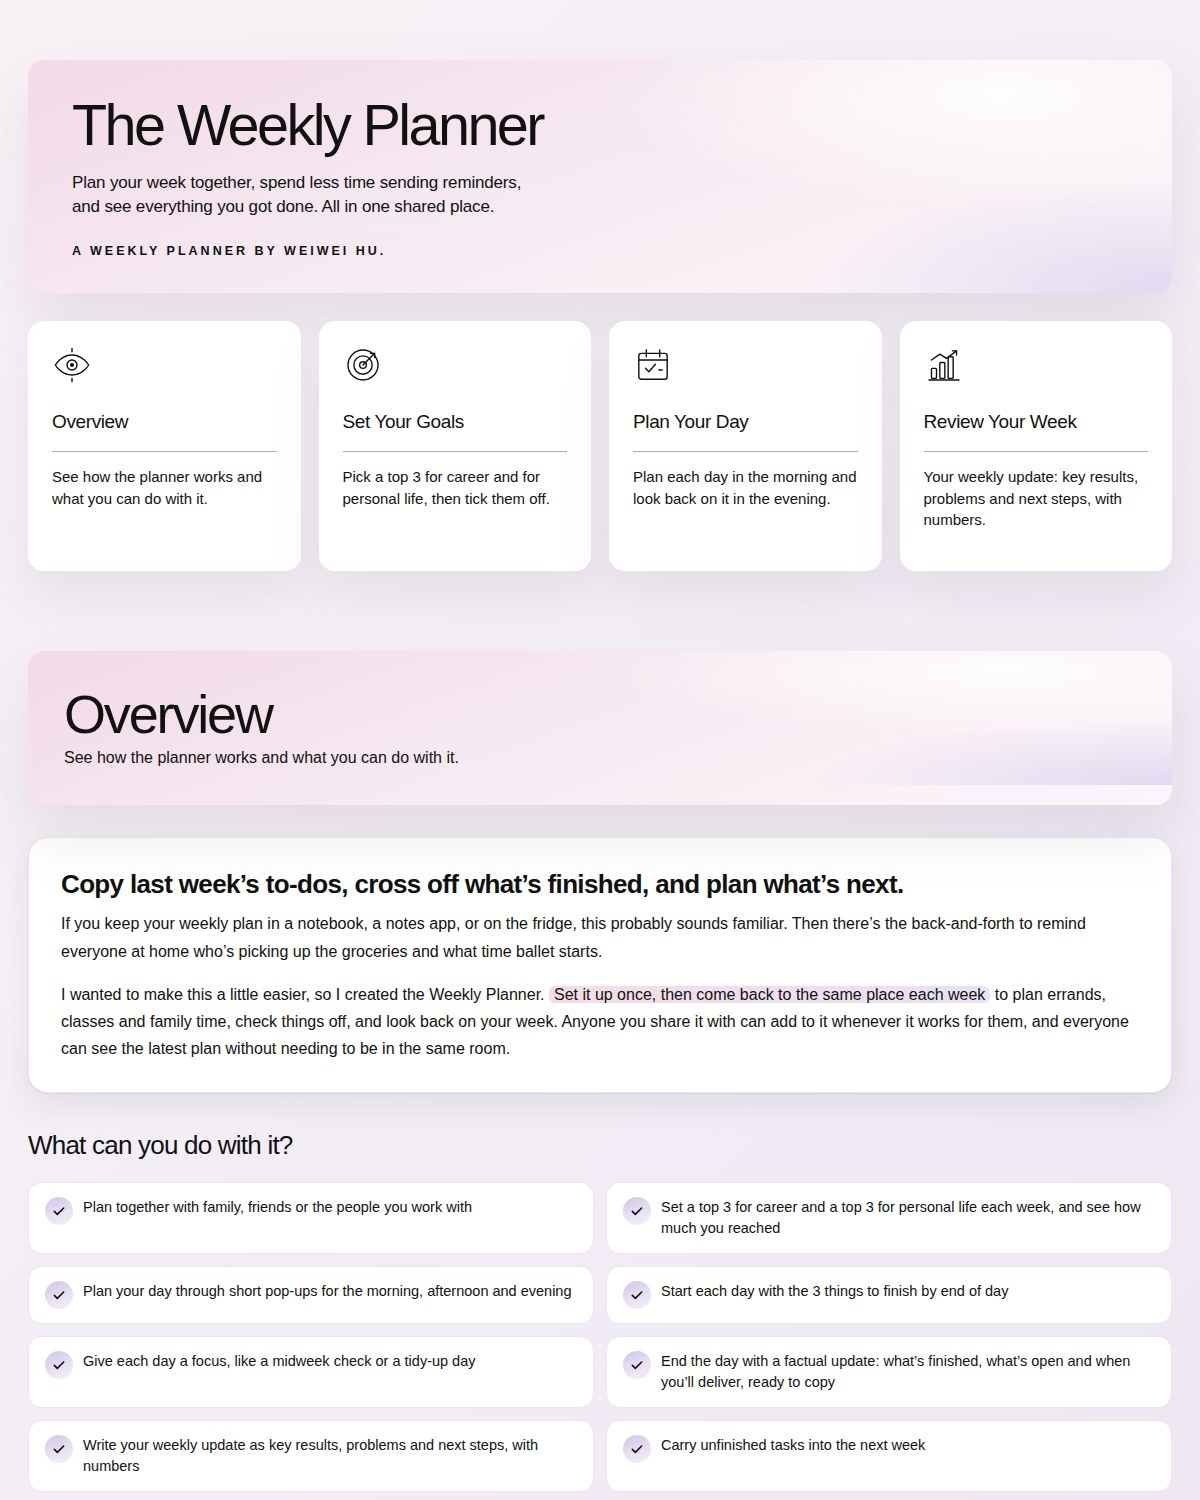
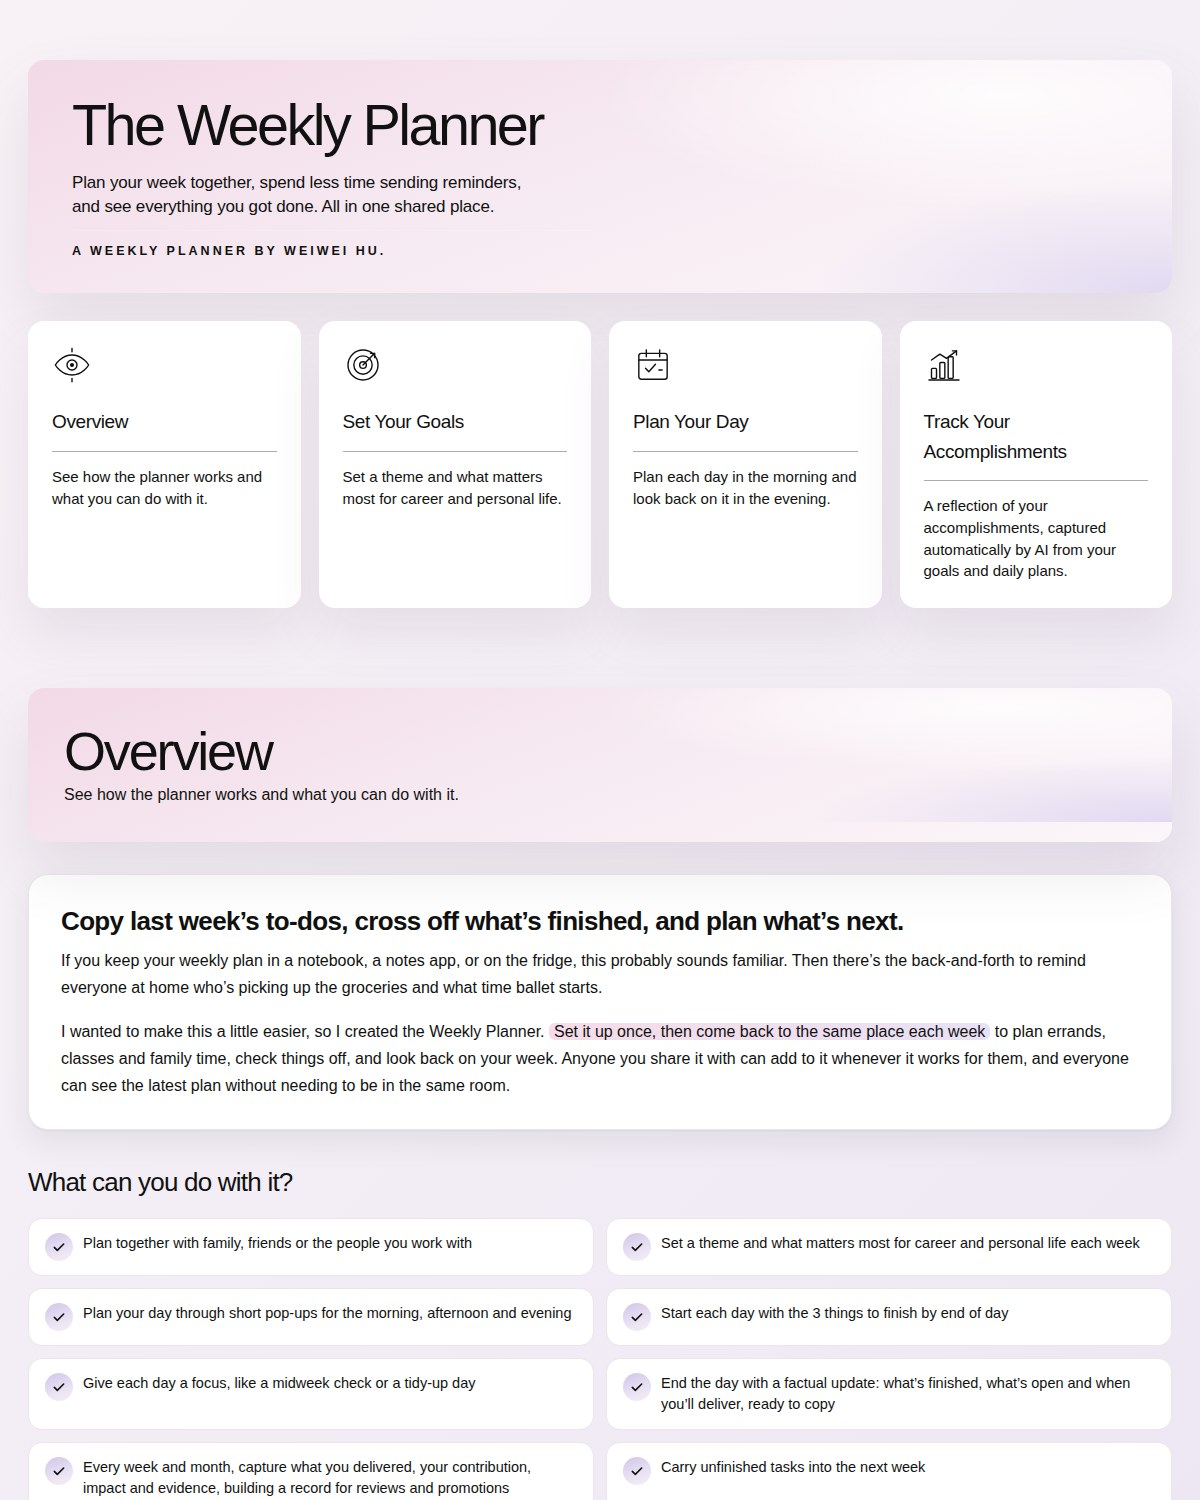
Showcase: printable pack and cover image in the Nuit design
Claude-Session: https://claude.ai/code/session_01VDgZDGuyWY1t5kV3qQKL2N

diff --git a/index.html b/index.html
@@ -2479,7 +2479,7 @@ a, .linkbtn { color: #7E4E92; }
         <li><span class="ic"><svg viewBox="0 0 24 24" fill="none" stroke="currentColor" stroke-width="2.4" stroke-linecap="round" stroke-linejoin="round" aria-hidden="true"><path d="M5 12.5l4.5 4.5L19 7.5"></path></svg></span><span>Export and reopen your plan</span></li>
       </ul>
     </section>
-    <section aria-labelledby="introPrint"><h2 id="introPrint">Printable and download bundle</h2><p>Prefer paper? A printable pack is on the way: 14 undated pages in A4 and US Letter, with a focus for each day, a plan-the-week page, a monthly to-do list, a week at a glance, daily pages and a weekly review. A bundle will also include a copy of the planner you can open in your own browser.</p><img src="printable-preview.jpg" alt="Four pages from the printable pack: the cover, plan the week, a Monday page and the weekly review" width="1800" height="639" loading="lazy" style="display:block;width:100%;height:auto;margin-top:16px;border-radius:14px;border:1px solid var(--line)"></section><section class="cta" aria-labelledby="introHow">
+    <section aria-labelledby="introPrint"><h2 id="introPrint">Printable and download bundle</h2><p>Prefer paper? A printable pack is on the way: 14 undated pages in A4 and US Letter, with a focus for each day, a set-your-goals page, a monthly to-do list, daily pages, a weekly accomplishments page and a monthly reflection. A bundle will also include a copy of the planner you can open in your own browser.</p><img src="printable-preview.jpg" alt="Four pages from the printable pack: the cover, set your goals, a Monday page and weekly accomplishments" width="1800" height="639" loading="lazy" style="display:block;width:100%;height:auto;margin-top:16px;border-radius:14px;border:1px solid var(--line)"></section><section class="cta" aria-labelledby="introHow">
       <h2 id="introHow">Want to try it?</h2>
       
       <p>The planner lives in a private, shared space for the people I plan with. If you’d like to see it in action or adapt it for your own week, I’d be happy to hear from you.</p><a class="cta-btn" href="https://www.linkedin.com/in/weiweihu/" target="_blank" rel="noopener"><svg viewBox="0 0 24 24" aria-hidden="true" fill="currentColor"><path d="M4.98 3.5a2.5 2.5 0 1 1 0 5 2.5 2.5 0 0 1 0-5ZM3 9.75h4v11H3v-11Zm6.5 0h3.8v1.5h.06c.53-1 1.83-1.8 3.76-1.8 4 0 4.88 2.4 4.88 5.6v5.7h-4v-5.05c0-1.2-.02-2.75-1.7-2.75-1.7 0-1.95 1.3-1.95 2.66v5.14h-4v-11Z"></path></svg> Message me on LinkedIn</a>

diff --git a/README.md b/README.md
@@ -23,7 +23,7 @@ The planner has three pages: **Set Your Goals**, **Plan Your Day** and **Track Y
 
 ## Printable and download bundle
 
-Prefer paper? A printable pack is on the way: 14 undated pages in A4 and US Letter, with a focus for each day, a plan-the-week page, a monthly to-do list, a week at a glance, daily pages and a weekly review. A bundle will also include a copy of the planner you can open in your own browser.
+Prefer paper? A printable pack is on the way: 14 undated pages in A4 and US Letter, with a focus for each day, a set-your-goals page, a monthly to-do list, daily pages, a weekly accomplishments page and a monthly reflection. A bundle will also include a copy of the planner you can open in your own browser.
 
 ![Four pages from the printable pack](printable-preview.jpg)
 
